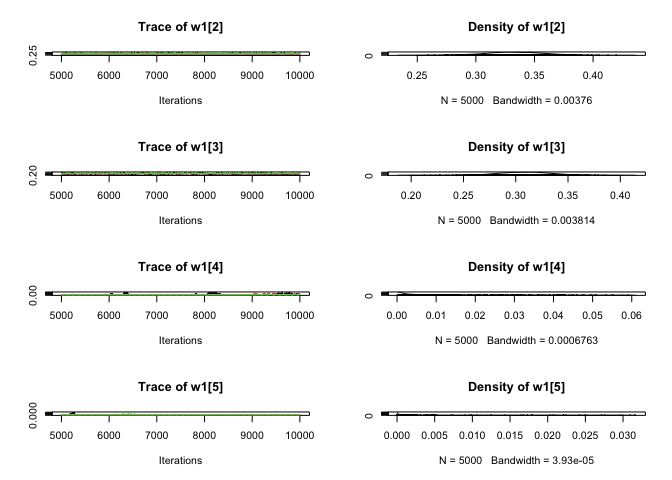
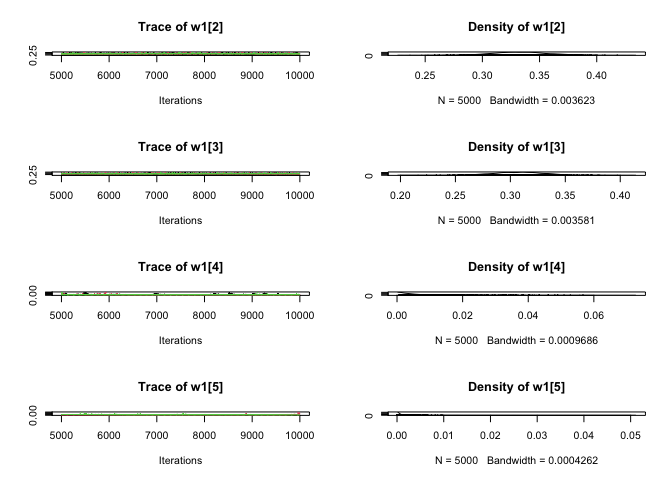
Save work before pulling

diff --git a/README.md b/README.md
@@ -19,6 +19,7 @@ in parallel through the runjags package.
 <br>
 
 $$y_i \sim \text{Bernoulli}(\pi_i) $$
+
 $$\text{logit}(\pi_i) = c_0+ \sum\limits_{g = 1}^G \gamma_g \bigg( \sum\limits_{k = 1} ^{c_g} w_{g,k} \cdot q_{g,k,i}\bigg) + \sum_{r = 1}^R \phi_rz_{r,i} $$
 where
 
@@ -57,26 +58,19 @@ You can install the development version of fgwqsr from
 ``` r
 # install.packages("devtools")
 devtools::install_github("Daniel-Rud/fgwqsr")
+#> Using github PAT from envvar GITHUB_PAT. Use `gitcreds::gitcreds_set()` and unset GITHUB_PAT in .Renviron (or elsewhere) if you want to use the more secure git credential store instead.
 #> Downloading GitHub repo Daniel-Rud/fgwqsr@HEAD
-#> fansi   (1.0.4 -> 1.0.5) [CRAN]
-#> withr   (2.5.0 -> 2.5.1) [CRAN]
-#> ggplot2 (3.4.3 -> 3.4.4) [CRAN]
-#> Installing 3 packages: fansi, withr, ggplot2
-#> Installing packages into '/private/var/folders/b4/9kg7p6cj729_pzc5dggk_9jm0000gn/T/RtmpVPL745/temp_libpath874955fed213'
-#> (as 'lib' is unspecified)
 #> 
-#> The downloaded binary packages are in
-#>  /var/folders/b4/9kg7p6cj729_pzc5dggk_9jm0000gn/T//RtmpP4mS6a/downloaded_packages
 #> ── R CMD build ─────────────────────────────────────────────────────────────────
-#> * checking for file ‘/private/var/folders/b4/9kg7p6cj729_pzc5dggk_9jm0000gn/T/RtmpP4mS6a/remotes8ac9332aeec7/Daniel-Rud-fgwqsr-63eb157/DESCRIPTION’ ... OK
-#> * preparing ‘fgwqsr’:
-#> * checking DESCRIPTION meta-information ... OK
-#> * checking for LF line-endings in source and make files and shell scripts
-#> * checking for empty or unneeded directories
-#> Omitted ‘LazyData’ from DESCRIPTION
-#> * building ‘fgwqsr_0.1.0.tar.gz’
-#> Installing package into '/private/var/folders/b4/9kg7p6cj729_pzc5dggk_9jm0000gn/T/RtmpVPL745/temp_libpath874955fed213'
-#> (as 'lib' is unspecified)
+#>      checking for file ‘/private/var/folders/b4/9kg7p6cj729_pzc5dggk_9jm0000gn/T/RtmprpMIRn/remotes16d8746461745/Daniel-Rud-fgwqsr-8f82fee/DESCRIPTION’ ...  ✔  checking for file ‘/private/var/folders/b4/9kg7p6cj729_pzc5dggk_9jm0000gn/T/RtmprpMIRn/remotes16d8746461745/Daniel-Rud-fgwqsr-8f82fee/DESCRIPTION’
+#>   ─  preparing ‘fgwqsr’:
+#>      checking DESCRIPTION meta-information ...  ✔  checking DESCRIPTION meta-information
+#>   ─  checking for LF line-endings in source and make files and shell scripts
+#>   ─  checking for empty or unneeded directories
+#>      Omitted ‘LazyData’ from DESCRIPTION
+#>   ─  building ‘fgwqsr_0.1.0.tar.gz’
+#>      
+#> 
 ```
 
 ``` r
@@ -388,7 +382,7 @@ summary(fgwqsr_fit)
 #> 
 #> Significance Codes: <0.001 '***' <0.01 '**' <0.05 '*' <0.10 '.' 
 #> 
-#> Total runtime for FGWQSR:  58.87 seconds on 10 cores.
+#> Total runtime for FGWQSR:  1.27 minutes on 10 cores.
 ```
 
 <br> We can compare the true underlying group indices and chemical
@@ -560,7 +554,7 @@ summary(fgwqsr_fit_adj)
 #> 
 #> Significance Codes: <0.001 '***' <0.01 '**' <0.05 '*' <0.10 '.' 
 #> 
-#> Total runtime for FGWQSR:  1.06 minutes on 10 cores.
+#> Total runtime for FGWQSR:  1.35 minutes on 10 cores.
 ```
 
 <br>
@@ -667,10 +661,15 @@ bgwqsr_fit = bgwqsr(formula = mod_formula_adj,
                     n.thin = 1, 
                     n.chains = 3,
                     method = "parallel")
+#> Warning in system(paste0("lipo -archs ", gsub("/bin/jags",
+#> "/libexec/jags-terminal", : running command 'lipo -archs
+#> /usr/local/libexec/jags-terminal' had status 1
+#> Warning in runjags::testjags(silent = T): Reading the binary type of JAGS
+#> failed - do you need to update the Xcode Command Line Tools?
 #> Calling 3 simulations using the parallel method...
 #> Following the progress of chain 1 (the program will wait for all chains
 #> to finish before continuing):
-#> Welcome to JAGS 4.3.2 (official binary) on Thu Oct 12 11:04:33 2023
+#> Welcome to JAGS 4.3.2 (official binary) on Mon Mar 24 13:17:29 2025
 #> JAGS is free software and comes with ABSOLUTELY NO WARRANTY
 #> Loading module: basemod: ok
 #> Loading module: bugs: ok
@@ -714,72 +713,50 @@ the summaries object from the bgwqsr model.
 
 ``` r
 bgwqsr_fit$model$summaries
-#>                      Lower95        Median     Upper95          Mean
-#> B0              -4.30210e+00 -3.0952300000 -1.74144000 -3.0856619104
-#> B1              -7.59809e-01 -0.7157205000 -0.67133600 -0.7158515534
-#> B2              -2.00535e-02  0.0167345000  0.05589660  0.0173380522
-#> B3               3.49518e-01  0.3897380000  0.43453700  0.3898611889
-#> phi_weight       2.92115e-02  0.0481714000  0.06657180  0.0479928583
-#> phi_city_city_2  1.87781e-02  0.1623200000  0.27459900  0.1591256876
-#> phi_city_city_3 -1.16474e+00 -1.0462600000 -0.92083200 -1.0465634217
-#> w1[1]            3.06008e-01  0.3514210000  0.40051200  0.3508524864
-#> w1[2]            2.86619e-01  0.3332080000  0.37982100  0.3335506664
-#> w1[3]            2.62765e-01  0.3087470000  0.35918600  0.3084931350
-#> w1[4]            3.32467e-05  0.0026340700  0.02772390  0.0062034784
-#> w1[5]            1.99593e-08  0.0000143415  0.00461558  0.0009002353
-#> w2[1]            1.24377e-12  0.1105480000  0.90222300  0.2516783792
-#> w2[2]            1.84539e-13  0.0637446000  0.88154300  0.2105397284
-#> w2[3]            2.17595e-10  0.0453788000  0.82438500  0.1826313914
-#> w2[4]            2.04711e-13  0.2622310000  0.95116400  0.3551505062
-#> w3[1]            2.72975e-01  0.3666375000  0.46383100  0.3678420780
-#> w3[2]            1.82364e-01  0.2864790000  0.37861600  0.2869475990
-#> w3[3]            2.13726e-01  0.3066120000  0.41303500  0.3066545975
-#> w3[4]            1.88523e-11  0.0048332300  0.11838400  0.0285844623
-#> w3[5]            6.35964e-07  0.0037674850  0.04185370  0.0099712572
-#>                          SD Mode        MCerr MC%ofSD SSeff       AC.10
-#> B0              0.658038476   NA 0.0083327334     1.3  6236 -0.01221009
-#> B1              0.022663776   NA 0.0002754119     1.2  6772  0.01690245
-#> B2              0.019684200   NA 0.0004109830     2.1  2294  0.09320557
-#> B3              0.021995462   NA 0.0003032653     1.4  5260  0.03511188
-#> phi_weight      0.009593334   NA 0.0001213097     1.3  6254 -0.01314479
-#> phi_city_city_2 0.064296842   NA 0.0013673318     2.1  2211  0.10632959
-#> phi_city_city_3 0.062332230   NA 0.0009100506     1.5  4691  0.03971950
-#> w1[1]           0.024212923   NA 0.0005713570     2.4  1796  0.11062723
-#> w1[2]           0.024269874   NA 0.0005689398     2.3  1820  0.10649906
-#> w1[3]           0.024620076   NA 0.0005910591     2.4  1735  0.11567715
-#> w1[4]           0.009143104   NA 0.0012051479    13.2    58  0.91769452
-#> w1[5]           0.003098471   NA 0.0004535183    14.6    47  0.94463769
-#> w2[1]           0.297694515   NA 0.0141013347     4.7   446  0.52870752
-#> w2[2]           0.282939745   NA 0.0135901586     4.8   433  0.54368622
-#> w2[3]           0.263129636   NA 0.0122163115     4.6   464  0.52316049
-#> w2[4]           0.338345513   NA 0.0165843037     4.9   416  0.57976731
-#> w3[1]           0.049261003   NA 0.0012319850     2.5  1599  0.13630152
-#> w3[2]           0.049886219   NA 0.0013507356     2.7  1364  0.19075789
-#> w3[3]           0.051385304   NA 0.0013334044     2.6  1485  0.16205836
-#> w3[4]           0.040401168   NA 0.0042701411    10.6    90  0.79972540
-#> w3[5]           0.014896495   NA 0.0013875691     9.3   115  0.82371076
-#>                     psrf
-#> B0              1.000512
-#> B1              1.000279
-#> B2              1.000258
-#> B3              1.010646
-#> phi_weight      1.000488
-#> phi_city_city_2 1.000175
-#> phi_city_city_3 1.000488
-#> w1[1]           1.006384
-#> w1[2]           1.003031
-#> w1[3]           1.001659
-#> w1[4]           1.472117
-#> w1[5]           1.435964
-#> w2[1]           1.082539
-#> w2[2]           1.060421
-#> w2[3]           1.005073
-#> w2[4]           1.051189
-#> w3[1]           1.014283
-#> w3[2]           1.019686
-#> w3[3]           1.019458
-#> w3[4]           5.618897
-#> w3[5]           1.313100
+#>                      Lower95       Median    Upper95         Mean          SD
+#> B0              -4.40849e+00 -3.095795000 -1.7895200 -3.088385284 0.665667178
+#> B1              -7.61353e-01 -0.717048000 -0.6721500 -0.717157004 0.022812537
+#> B2              -1.92075e-02  0.017072400  0.0559564  0.017634530 0.019430139
+#> B3               3.49999e-01  0.391982000  0.4362610  0.392150625 0.022072387
+#> phi_weight       2.79012e-02  0.048054400  0.0661864  0.047983756 0.009708461
+#> phi_city_city_2  1.71834e-02  0.163311500  0.2761830  0.159490287 0.065037109
+#> phi_city_city_3 -1.16980e+00 -1.046220000 -0.9270710 -1.046969735 0.062277599
+#> w1[1]            3.03934e-01  0.348945000  0.3959290  0.349093571 0.023758275
+#> w1[2]            2.88053e-01  0.332456500  0.3823490  0.333110185 0.023969905
+#> w1[3]            2.58450e-01  0.308096000  0.3500950  0.307047822 0.023671648
+#> w1[4]            3.58028e-05  0.004023960  0.0262583  0.007439622 0.009045895
+#> w1[5]            8.22267e-07  0.000635292  0.0154703  0.003308806 0.005814030
+#> w2[1]            1.23736e-09  0.104371000  0.8942340  0.250328507 0.297036310
+#> w2[2]            3.40093e-11  0.044696000  0.8394000  0.193567686 0.270198114
+#> w2[3]            7.35510e-10  0.046303400  0.7523300  0.171911304 0.245240118
+#> w2[4]            2.28705e-08  0.314771000  0.9711330  0.384192500 0.341646975
+#> w3[1]            2.68280e-01  0.362352000  0.4518600  0.361978297 0.046968104
+#> w3[2]            1.96195e-01  0.281629000  0.3781900  0.282239031 0.047074898
+#> w3[3]            2.13739e-01  0.303768000  0.3972250  0.304349616 0.047556943
+#> w3[4]            2.75785e-06  0.040766100  0.1241470  0.047546975 0.041340863
+#> w3[5]            1.09743e-08  0.000148763  0.0227399  0.003886088 0.010114003
+#>                 Mode        MCerr MC%ofSD SSeff         AC.10     psrf
+#> B0                NA 0.0083843248     1.3  6303  2.903040e-03 1.000965
+#> B1                NA 0.0002708694     1.2  7093  1.677988e-02 1.000413
+#> B2                NA 0.0003956063     2.0  2412  9.860925e-02 1.001421
+#> B3                NA 0.0002828128     1.3  6091  3.259971e-02 1.009502
+#> phi_weight        NA 0.0001220182     1.3  6331 -3.837292e-05 1.000839
+#> phi_city_city_2   NA 0.0015076814     2.3  1861  1.370036e-01 1.001817
+#> phi_city_city_3   NA 0.0010250899     1.6  3691  6.330980e-02 1.001588
+#> w1[1]             NA 0.0005469099     2.3  1887  8.525232e-02 1.004265
+#> w1[2]             NA 0.0005768395     2.4  1727  1.226634e-01 1.000403
+#> w1[3]             NA 0.0005891752     2.5  1614  1.290483e-01 1.001294
+#> w1[4]             NA 0.0010801436    11.9    70  8.972487e-01 1.198355
+#> w1[5]             NA 0.0007924967    13.6    54  9.213906e-01 1.169921
+#> w2[1]             NA 0.0133283976     4.5   497  5.097496e-01 1.021924
+#> w2[2]             NA 0.0119401800     4.4   512  4.870058e-01 1.033214
+#> w2[3]             NA 0.0110146889     4.5   496  4.965258e-01 1.048808
+#> w2[4]             NA 0.0174002049     5.1   386  5.624401e-01 1.047184
+#> w3[1]             NA 0.0010777233     2.3  1899  1.071622e-01 1.015598
+#> w3[2]             NA 0.0011934638     2.5  1556  1.392284e-01 1.009907
+#> w3[3]             NA 0.0012152908     2.6  1531  1.631063e-01 1.013717
+#> w3[4]             NA 0.0029821629     7.2   192  7.413537e-01 1.134185
+#> w3[5]             NA 0.0010213382    10.1    98  8.538041e-01 1.087874
 ```
 
 We can analyze the mixing of the markov chains and corresponding
